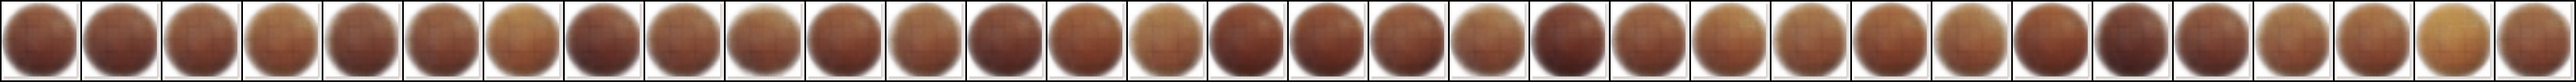
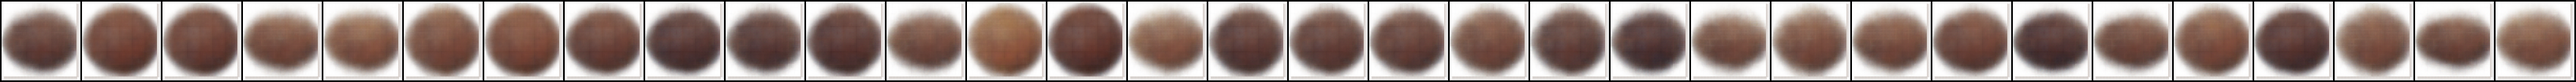
Complex net results 1

diff --git a/Project/embedding_nets.py b/Project/embedding_nets.py
@@ -175,13 +175,13 @@ class ANET(nn.Module):
                 self.layers += [nn.ReLU()]
                 if i == 1 or i ==3 or i ==5:
                     self.layers += [nn.MaxPool2d(3,stride=1)]
-                elif i ==2 or i == 6:
+                elif i ==2 :
                     self.layers += [nn.Dropout2d()]
         self.layers += [nn.Flatten()]
         self.layers += [nn.Linear(self.linearSize1, dims['linear1'][0])]
         self.layers += [nn.ReLU()]
         self.layers += [nn.Linear(dims['linear1'][0], dims['linear1'][1])]
-        self.layers += [nn.ReLU()]
+        self.layers += [nn.LogSoftmax()]
         
         self.layers = nn.ModuleList(self.layers)
         

diff --git a/Project/top_level.py b/Project/top_level.py
@@ -120,8 +120,8 @@ def main():
 
         # Instantiate the framework with the selected architecture, labeling options etc 
         model = ClassifierFrame(embeddingNet, **kwargs)
-        optim = optm.SGD(model.encoder.parameters(), lr=lr, momentum=m)
-        #optim = optm.Adam(model.encoder.parameters(), lr=lr)
+        #optim = optm.SGD(model.encoder.parameters(), lr=lr, momentum=m)
+        optim = optm.Adam(model.encoder.parameters(), lr=lr)
         # ---|
 
         print("######### Initiating {} Network training #########\n".format(model.descr))
